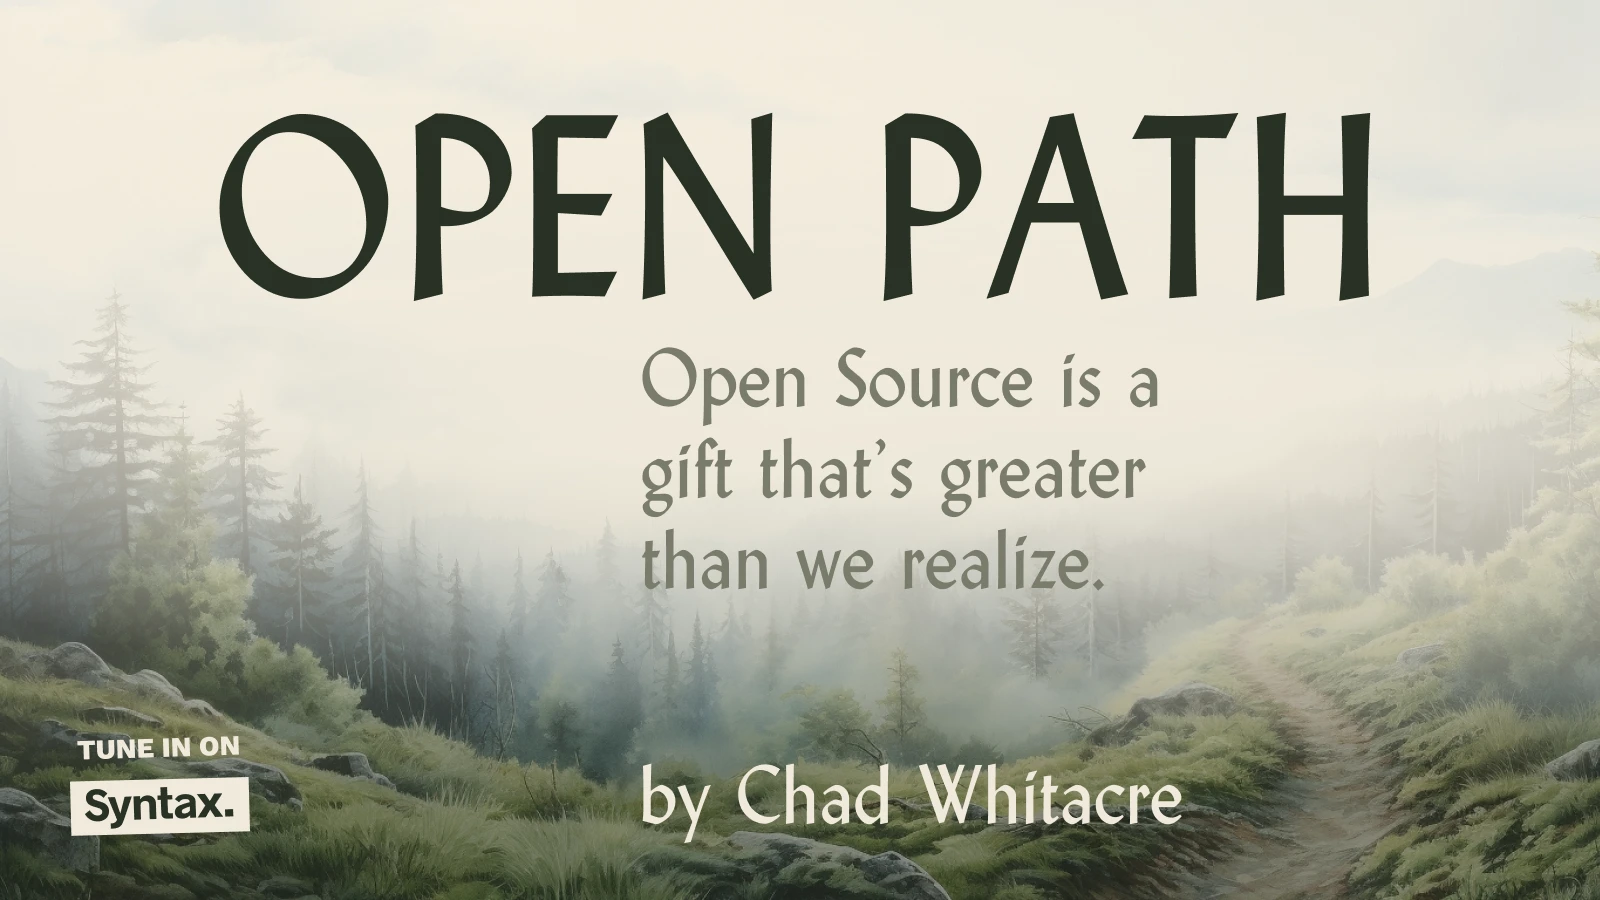
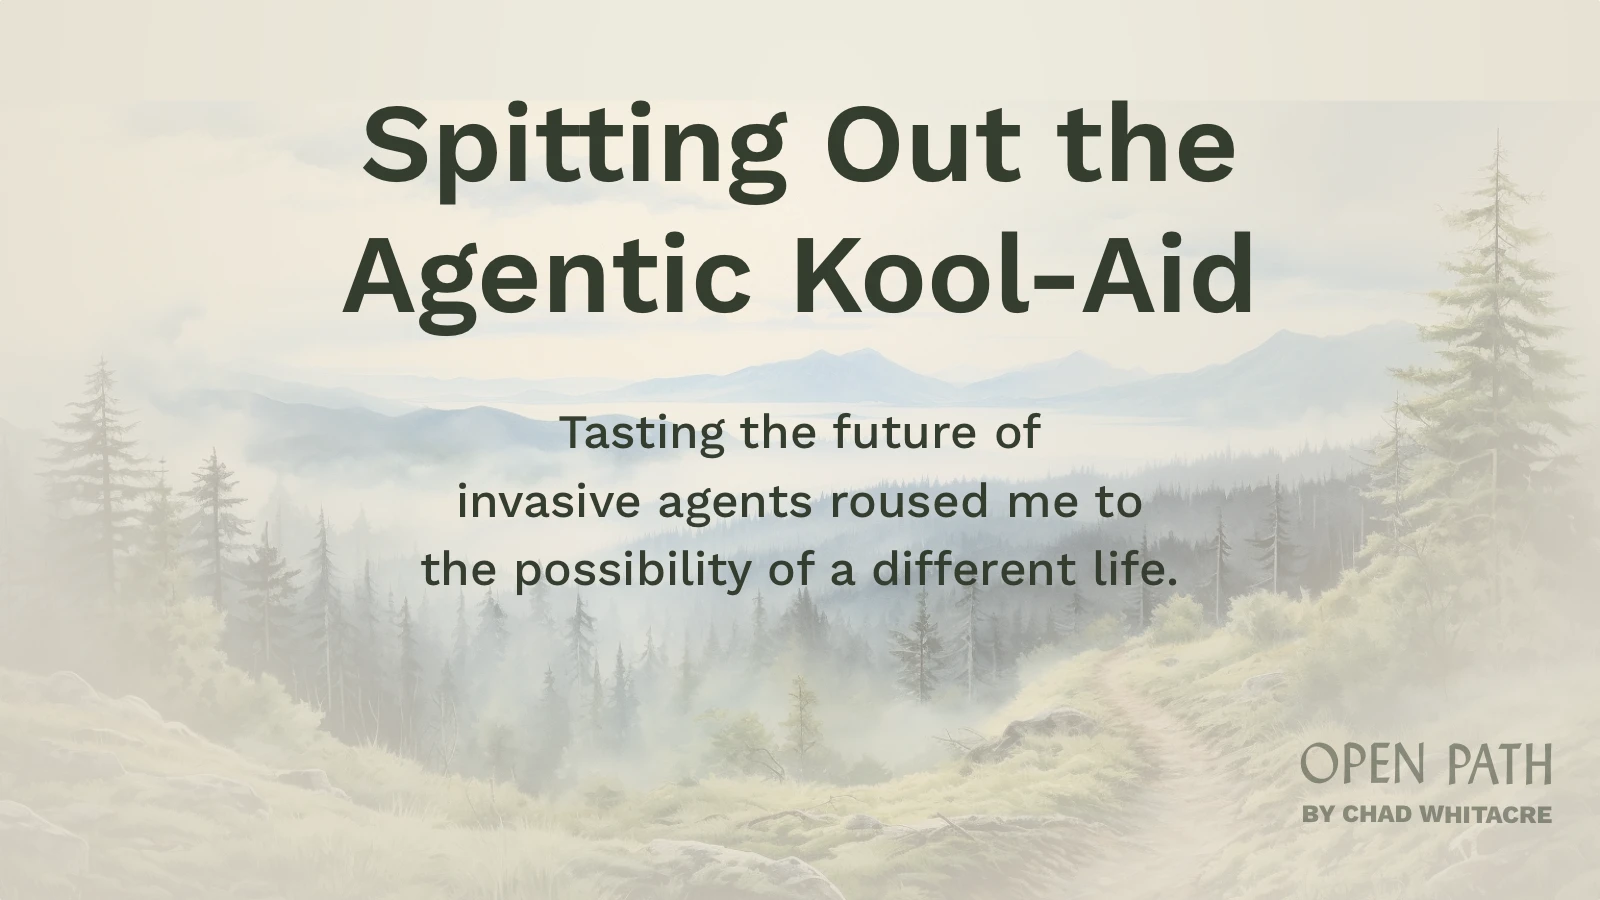
Final draft

diff --git a/2026/spitting-out-the-agentic-kool-aid/index.md b/2026/spitting-out-the-agentic-kool-aid/index.md
@@ -1,10 +1,8 @@
 ---
-title: Spitting Out the Agentic Kool-AId
-excerpt:  After tasting the future of invasive agents, I've woken up to the possibility of a different life.
+title: Spitting Out the Agentic Kool-Aid
+excerpt:  Tasting the future of invasive agents roused me to the possibility of a different life.
 noindex: true
 ---
-{% include img.html src="social.webp" caption="" url="" %}
-
 One Sunday evening last June, [three
 friends met](https://x.com/steipete/status/1934357642899521713) in Vienna to
 relive the glory days: [coding all night](https://steipete.me/posts/2025/vibetunnel-turn-any-browser-into-your-mac-terminal).
@@ -30,9 +28,9 @@ day Anthropic [released Opus
 
 OpenClaw 
 [exploded](https://www.star-history.com/#codecrafters-io/build-your-own-x&torvalds/linux&type=date&legend=top-left).
-The spotlight on Peter is [bright](https://x.com/georgepickett/status/2019445652363542911) [indeed](https://x.com/lexfridman/status/2021785659644453136).
+The spotlight on Peter is [bright](https://x.com/georgepickett/status/2019445652363542911) [indeed](https://x.com/lexfridman/status/2021785659644453136). He has now [joined OpenAI and announced a foundation](https://steipete.me/posts/2026/openclaw).
 
-{% include img.html src="stars.png" caption="CodeCrafters is #1 by stars, OpenClaw is #24 ... today."
+{% include img.html src="stars.webp" caption="CodeCrafters is #1 by stars. Linux is #14. OpenClaw is #17 ... today."
 url="https://github.com/EvanLi/Github-Ranking/blob/master/Top100/Top-100-stars.md" %}
 
 (For the record: Armin is [a
@@ -61,11 +59,12 @@ decided to time-box my usage. I gave myself two more days to ship an MVP of
 this side project, and then I would shift to writing up a blog post about my
 experience with agentic coding and my thoughts on its impact on Open Source.
 
-[ more in here about my phenomenological experience ]
+It weirded me out too, when I unplugged for a long weekend. Something felt off.
+It was like I had another "person" in my head, sharing my inner monologue---but
+the "person" was a computer system owned by a budding megacorp. I spent Monday
+evening and Tuesday with it again, and this time got so bogged down in bugs and
+felt so gross that I gave up on shipping the MVP in the time allotted.
 
-I unplugged for a long weekend. I spent Monday evening and Tuesday with it
-again, and this time got so bogged down in bugs that I gave up on shipping an
-MVP in the time allotted.
 
 {% include img.html src="seals.webp" caption="Nothing left but the sprites, courtesy of Nano Banana." %}
 
@@ -75,14 +74,16 @@ erupted into the [first](https://x.com/francedot/status/2017271738401534310),
 [white-hot](https://x.com/georgepickett/status/2019445652363542911)
 [ClawCon](https://luma.com/moltbot-sf-show-tell). The pull was so strong I felt
 it even in Pittsburgh. I fled the agentic vortex. How far would I have to go to
-gain enough perspective to gather my true thoughts?
+clear my head and gather my true thoughts?
 
 I drove north through [a deadly
 snowstorm](https://triblive.com/local/regional/1-dead-in-18-vehicle-crash-on-i-79/)
 on Friday, spent the night at my inlaws' empty house (they're in Florida), and
-in the morning sought out an old Amish friend. I beached the car in three snow drifts.
-Three times Amish appeared to heave me out. The last tried hitching his
-horse to my car.
+in the morning sought out an old Amish friend. I beached the car in three snow
+drifts to get there. Three times Amish bailed me out. The last tried hitching
+his horse to my car.
+
+{% include youtube.html video_id="cc94gDk6vk0" %}
 
 
 ## Aaron's Table
@@ -181,7 +182,8 @@ Some developers, like [Salvatore Sanfilippo](https://antirez.com/news/158) and
 [Mitchell Hashimoto](https://mitchellh.com/writing/my-ai-adoption-journey),
 seem unperturbed by the psychological rip tide. I'm not as strong. After a few
 days locked in a productive embrace with AI agents, I resonate with the
-warnings of the dangers of disordered attachment.
+warnings of the dangers of disordered attachment. It feels like a powerful
+synthetic opioid binding to my attachment receptors, or something.
 
 ## The Machine Starts 
 
@@ -223,9 +225,10 @@ agentic AI _not_ finding its way into our brains, a constant companion
 throughout life. "I operate as one half of [a human-AI
 dyad](https://x.com/i_need_api_key/status/2017311428735045852) with my human."
 
-[ Vlad - ideological / physical - make the connection stronger ]
+Yeah, no thanks. Hypercapitalism's _psychological_ invasion is bad enough.
+Seeing it in tandem with the equally relentless _physical_ invasion motivates me to
+draw a line. No agents for me, please.
 
-Yeah, no thanks. I'm gonna go ahead and tap out.
 
 ## My Amish Moment
 
@@ -254,8 +257,6 @@ sustainability challenges (finally getting solved with
 [Pledge](https://opensourcepledge.com/) and
 [Endowment](https://endowment.dev/))---I am now also committing myself to
 disembarking from the titantic of technological accelerationism.
-
-{% include youtube.html video_id="GyRZjqaWcow" %}
 
 I have started returning to a pre-screen, analog life. What does this mean?
 Consider four levels of increasing human autonomy:
